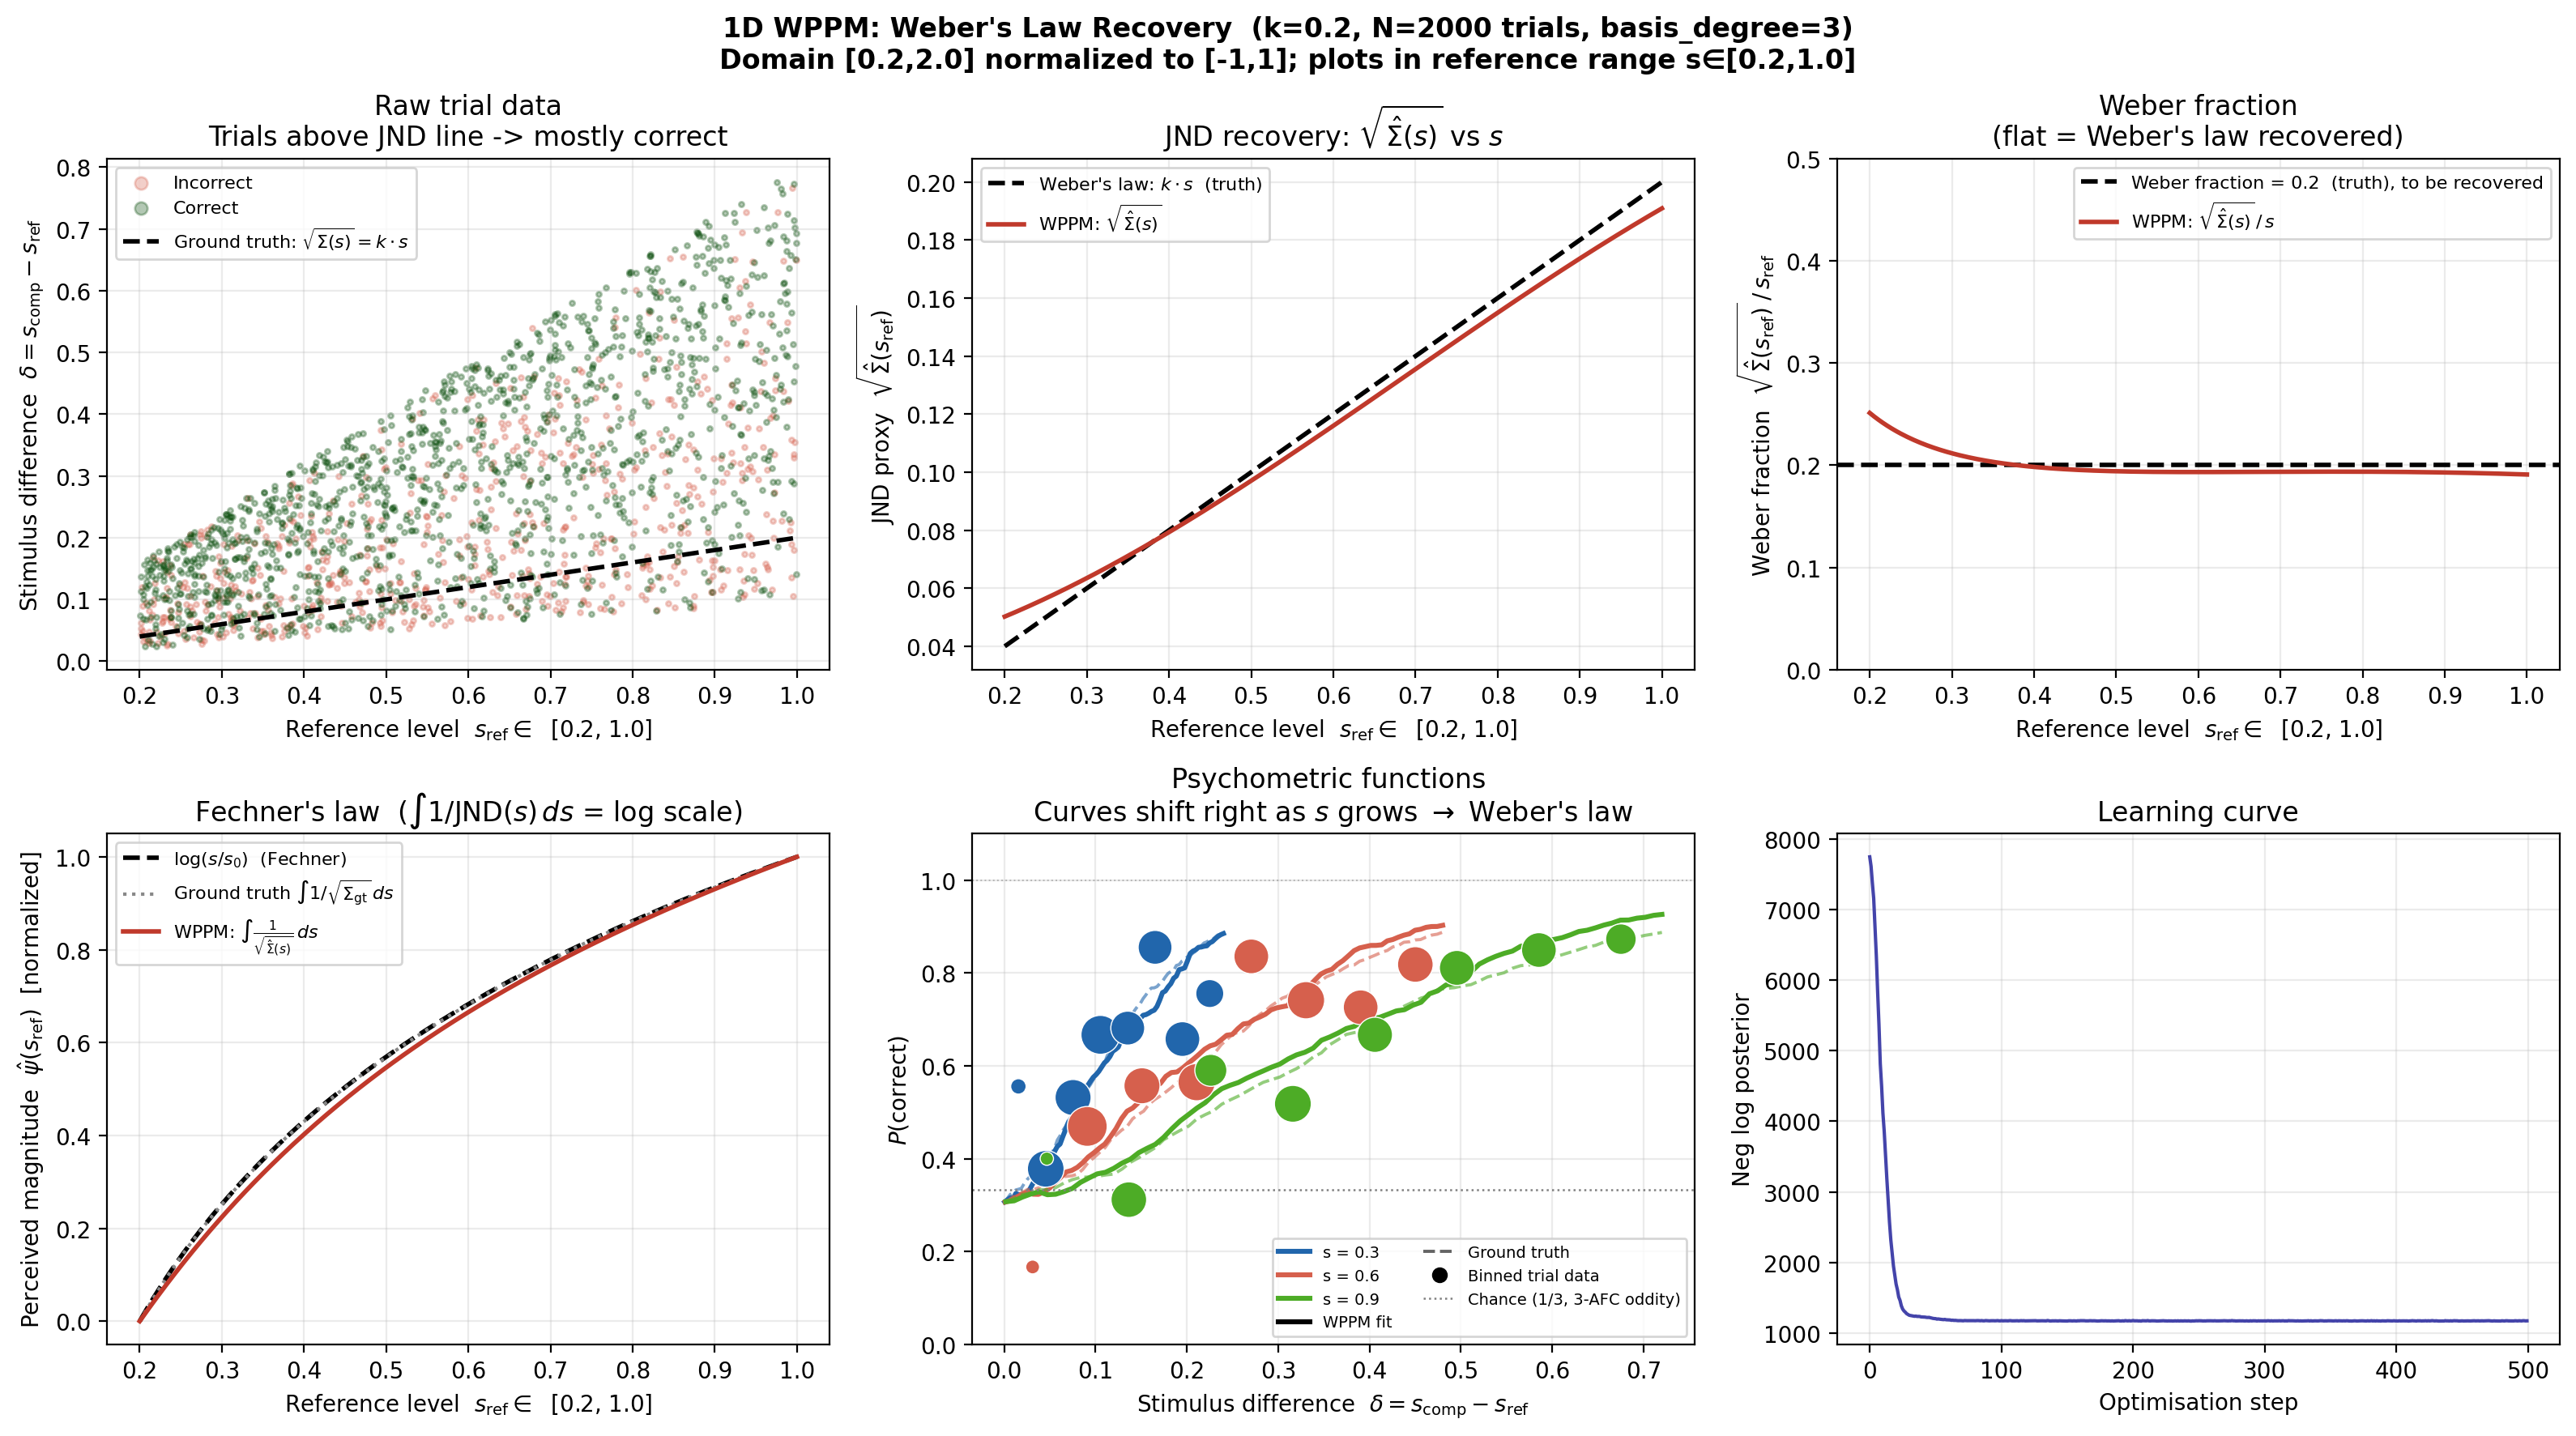
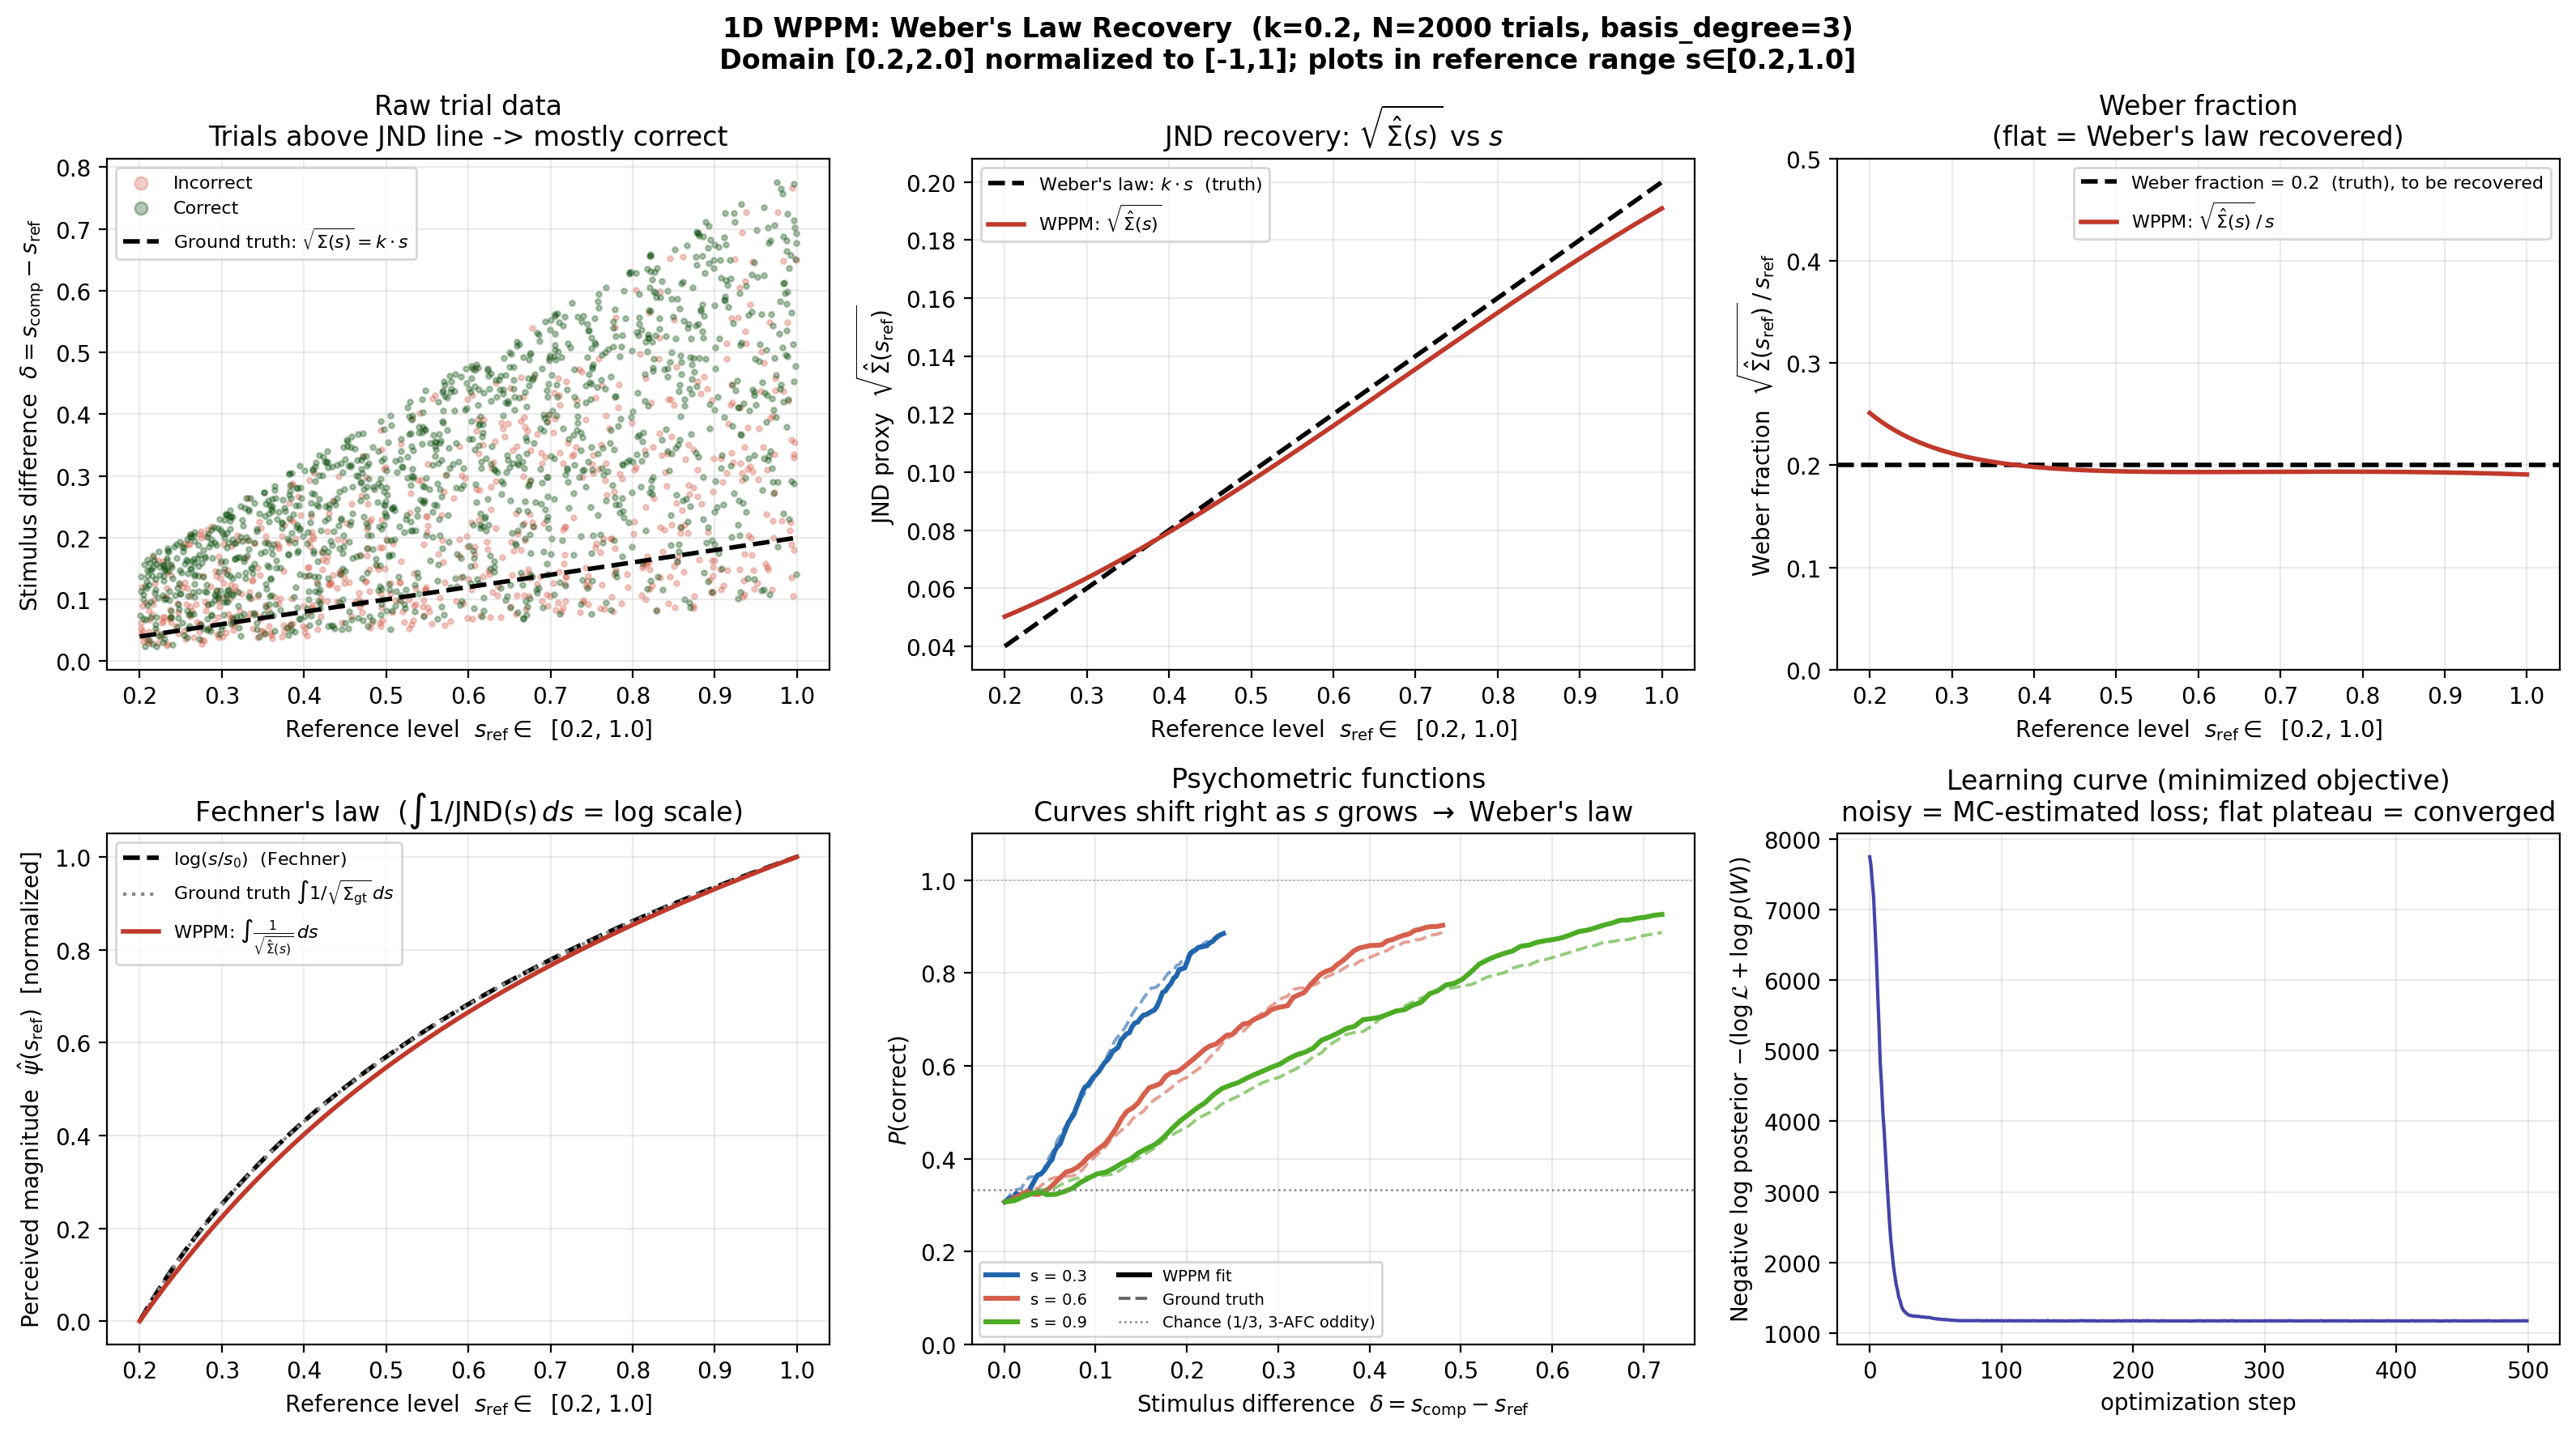
tutorial revision

diff --git a/docs/examples/wppm/weber_law_demo.py b/docs/examples/wppm/weber_law_demo.py
@@ -197,7 +197,7 @@ K_WEBER = 0.2  # Weber fraction (ground truth)
 DIAG_TERM = 1e-6  # numerical stability jitter; shared by WeberGroundTruth AND the
 # fitted WPPM so the generative model and the fitting model have
 # identical parameterisations. Removing from WPPM risks NaN gradients
-# when U(x) \approx 0 during early optimisation
+# when U(x) \approx 0 during early optimization
 N_TRIALS = 2000
 MC_SAMPLES = 1000  # MC samples for simulation and fitting
 
@@ -289,12 +289,11 @@ BASIS_DEGREE_FIT = 3
 print("[2/5] Fitting 1D WPPM via MAPOptimizer ...")
 
 # --8<-- [start:fit]
-prior = Prior(input_dim=1, basis_degree=BASIS_DEGREE_FIT, extra_embedding_dims=0)
+prior = Prior(input_dim=1, basis_degree=BASIS_DEGREE_FIT)
 model = WPPM(
-    input_dim=1,
-    extra_dims=0,  # embedding_dim = input_dim (minimal)
+    input_dim=1,  # 1D in put stimuli
     prior=prior,
-    likelihood=task,
+    likelihood=task,  # 3-AFC odd-one out
     noise=GaussianNoise(sigma=0.0),
     diag_term=DIAG_TERM,  # matches WeberGroundTruth for a fair comparison
 )
@@ -342,8 +341,8 @@ weber_fraction_fitted = jnd_fitted / s_grid
 # Weight analysis: exact analytical basis change; Chebyshev(x) -> monomial(s).
 # ---------------------------------------------------------------------------
 # The normalization x = a*s + b is an invertible affine map.  Because T_n(x(s))
-# is a degree-n polynomial in s, the Chebyshev representation U(x) = Σ Wₙ Tₙ(x)
-# and the physical monomial representation U(s) = Σ cₙ sⁿ span the same space.
+# is a degree-n polynomial in s, the Chebyshev representation U(x) = Σ W_n T_n(x)
+# and the physical monomial representation U(s) = Σ c_n s^n span the same space.
 # The conversion is a pure linear basis change; no fitting, no approximation:
 #   Step 1: cheb2poly converts W -> monomial coefficients in normalized x.
 #   Step 2: substituting x = a*s + b (polynomial composition) maps those to s.
@@ -430,28 +429,10 @@ for s_ref in PSYCH_LEVELS_PHYS:
     )(stims_psych)[0]
     # --8<-- [end:psychometric]
 
-    # Bin actual trial data near this reference level (physical units)
-    tol = 0.12
-    mask = jnp.abs(refs_s - s_ref) < tol
-    d_sel = np.asarray(delta_s[mask])
-    r_sel = np.asarray(responses[mask])
-    n_bins = 8
-    bin_edges = np.linspace(float(delta_sweep[0]), float(delta_sweep[-1]), n_bins + 1)
-    bin_centers, bin_pcorrect, bin_counts = [], [], []
-    for lo, hi in zip(bin_edges[:-1], bin_edges[1:]):
-        idx = (d_sel >= lo) & (d_sel < hi)
-        if idx.sum() >= 3:
-            bin_centers.append(0.5 * (lo + hi))
-            bin_pcorrect.append(r_sel[idx].mean())
-            bin_counts.append(idx.sum())
-
     psych_data[s_ref] = {
         "delta_sweep": delta_sweep,  # physical units
         "p_fit": p_fit,
         "p_ground_truth": p_gt,
-        "bin_centers": np.array(bin_centers),
-        "bin_pcorrect": np.array(bin_pcorrect),
-        "bin_counts": np.array(bin_counts),
     }
 
 # ---------------------------------------------------------------------------
@@ -713,17 +694,6 @@ def draw_psychometric(ax):
             linestyle="--",
             alpha=0.6,
         )
-        if len(d["bin_centers"]) > 0:
-            sizes = 20 + 3 * d["bin_counts"]
-            ax.scatter(
-                d["bin_centers"],
-                d["bin_pcorrect"],
-                color=color,
-                s=sizes,
-                zorder=5,
-                edgecolors="white",
-                linewidths=0.5,
-            )
 
     ax.axhline(1 / 3, color="gray", linewidth=0.9, linestyle=":")
     ax.axhline(1.0, color="gray", linewidth=0.7, linestyle=":", alpha=0.5)
@@ -748,15 +718,6 @@ def draw_psychometric(ax):
             linestyle="--",
             alpha=0.6,
             label="Ground truth",
-        ),
-        Line2D(
-            [0],
-            [0],
-            marker="o",
-            color="k",
-            linestyle="none",
-            markersize=6,
-            label="Binned trial data",
         ),
         Line2D(
             [0],
@@ -790,11 +751,29 @@ ax6 = axes[5]
 # --8<-- [start:learning_curve]
 steps_hist, loss_hist = optimizer.get_history()  # (step indices, neg-log-posterior)
 # --8<-- [end:learning_curve]
+# What this curve shows: the quantity MAPOptimizer minimizes each step, namely
+#   loss = -log_posterior = -(log_likelihood(W | data) + log_prior(W)),
+# where the only free parameters are the Chebyshev weights W defining
+# U(x) -> Sigma(x). The log-likelihood is the summed Bernoulli term over all
+# trials (does predicted P(correct) match the observed 0/1 responses?); the
+# log-prior is a Gaussian shrinkage on W. Lower = better.
+#
+# The likelihood is Monte-Carlo estimated with a FRESH random key every step,
+# so each point is a noisy estimate of the loss: expect jitter, and read the
+# *trend*, not individual points.
+#   converged -> drops then flattens into a noisy plateau (trust the fit);
+#   not converged -> still trending down at the last step (raise NUM_STEPS /
+#       LEARNING_RATE; Weber slope likely under-recovered);
+#   diverged -> climbs or hits NaN/Inf (lower LEARNING_RATE; MAPOptimizer stops
+#       early and prints a "Non-finite loss" message).
 if steps_hist:
     ax6.plot(steps_hist, loss_hist, color="#4444aa", linewidth=1.5)
-    ax6.set_xlabel("Optimisation step")
-    ax6.set_ylabel("Neg log posterior")
-    ax6.set_title("Learning curve")
+    ax6.set_xlabel("optimization step")
+    ax6.set_ylabel(r"Negative log posterior $-(\log \mathcal{L} + \log p(W))$")
+    ax6.set_title(
+        "Learning curve (minimized objective)\n"
+        "noisy = MC-estimated loss; flat plateau = converged"
+    )
     ax6.grid(True, alpha=0.25)
 
 fig.suptitle(

diff --git a/docs/examples/wppm/weber_law.md b/docs/examples/wppm/weber_law.md
@@ -5,7 +5,8 @@
 > answers.
 >
 > The complete runnable script is [`weber_law_demo.py`](https://github.com/flatironinstitute/psyphy/blob/main/docs/examples/wppm/weber_law_demo.py).
-> For the 2-D covariance-ellipse workflow, start with the [quick start](quick_start.md).
+> For the 2-D covariance-ellipse workflow, start with the [quick start](quick_start.md) or the
+> end-to-end [full WPPM fit tutorial](full_wppm_fit_example.md).
 
 This tutorial assumes you are comfortable with psychophysics (Just noticable difference (JND), psychometric
 functions, signal-detection ideas) but new to `psyphy`. We restate just enough of the
@@ -76,7 +77,7 @@ flexible model (degree 3 polynomial) and check it doesn't overfit.
 | CPU (laptop / M-series Mac) | 1–3 min |
 
 The fit uses `N_TRIALS = 2000` trials and `MC_SAMPLES = 1000` Monte-Carlo draws per trial;
-the optional basis sweep at the end refits the model several times and is the slow part.
+the optional basis sweep at the end refits the model several times and is the slow part (3 min).
 
 ---
 
@@ -194,10 +195,6 @@ never fit to.
 The three views above are algebra are '3 sides of the same coin'.
 
 ### Psychometric curve:
-For 3 stimulus reference levels we sweep the
-comparison and predict $p(\text{correct})$ from the fitted model (and from the ground truth,
-for comparison):
-
 
 If Weber's law has been recovered, the sigmoids shift **right in proportion to $s$**: a
 larger baseline needs a proportionally larger $\delta$ for the same performance. Chance for a
@@ -207,18 +204,47 @@ larger baseline needs a proportionally larger $\delta$ for the same performance.
   <img src="../plots/weber_panel5_psychometric.png"
        alt="Psychometric curves for three reference levels, shifting right with s; WPPM fit vs ground truth with binned data"
        width="520"/>
-  <p><em>Solid: WPPM fit. Dashed: ground truth. Dots: binned trial data that the model was fitted on overlayed for reference. Larger dots mean more data in that vicinity. The model inputs .</em></p>
+  <p><em>Solid: WPPM fit. Dashed: ground truth.  </em></p>
 </div>
 
 ---
 
-## Step 7  Learning curve and the full picture
+## Step 7  Learning curve (what we optimized)
 
-The optimizer's history is the negative log-posterior per step:
+The optimizer's history is the **negative log-posterior** per step; this is exactly the
+quantity `MAPOptimizer` minimizes:
+
+$$
+\text{loss} = -\log p(W \mid \text{data}) = -\big(\underbrace{\log \mathcal{L}(W \mid \text{data})}_{\text{fit to responses}} + \underbrace{\log p(W)}_{\text{prior on weights}}\big).
+$$
+
+The **only** free parameters are the Chebyshev weights $W$ that define $U(x)$ and hence
+$\Sigma(x)$. The two terms are:
+
+- **Log-likelihood**: summed over all trials, $\sum_i \big[r_i \log p_i + (1-r_i)\log(1-p_i)\big]$,
+  where $p_i = P(\text{correct})$ for trial $i$ from the Monte-Carlo oddity decision process
+  under the current $\Sigma$. It rewards predicted correctness probabilities that match the
+  observed 0/1 responses.
+- **Log-prior**: a Gaussian shrinkage $-\tfrac12\sum_n W_n^2/\sigma_n^2$ that pulls weights
+  (especially higher-order ones) toward zero. This is the regularization that makes the model
+  prefer plain Weber over a wiggly fit.
 
 ```python title="Access the learning curve"
 --8<-- "docs/examples/wppm/weber_law_demo.py:learning_curve"
 ```
+
+!!! note "If you're new to reading a learning curve:"
+    The likelihood is **Monte-Carlo estimated**, with a fresh random key drawn every step, so
+    each point is a *noisy* estimate of the loss. We only care about the **trend** and not individual points which may jitter due to MC noise,
+  which is  not a problem.
+
+    - **Converged** -> the loss drops, then flattens into a noisy plateau. Trust the recovered
+      $\sqrt{\hat\Sigma(s)}$ / JND.
+    - **Not converged** -> still trending downward at the final step. Increase `NUM_STEPS` or
+      `LEARNING_RATE`; the recovered Weber slope is likely *under*-estimated.
+    - **Diverged** -> the loss climbs or blows up to NaN/Inf. The optimizer guards this and stops
+      early with a `Non-finite loss` message. Usual causes: learning rate too high, or $\Sigma$
+      becoming non-positive-definite (the `diag_term` jitter exists to prevent this).
 
 The script assembles every result (the four diagnostic panels, the psychometric curves,
 and this learning curve)  into one figure: